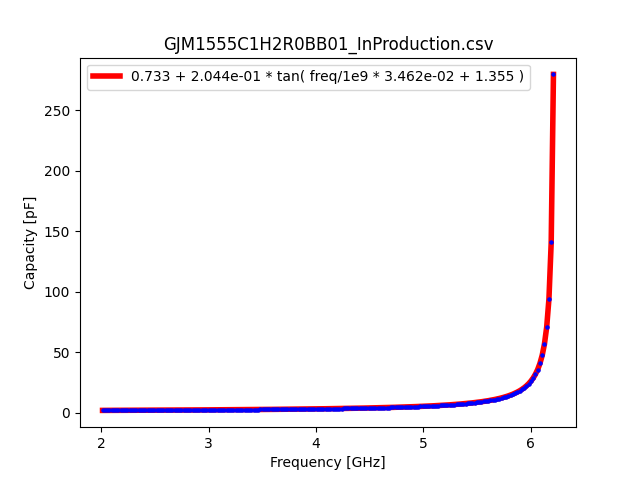
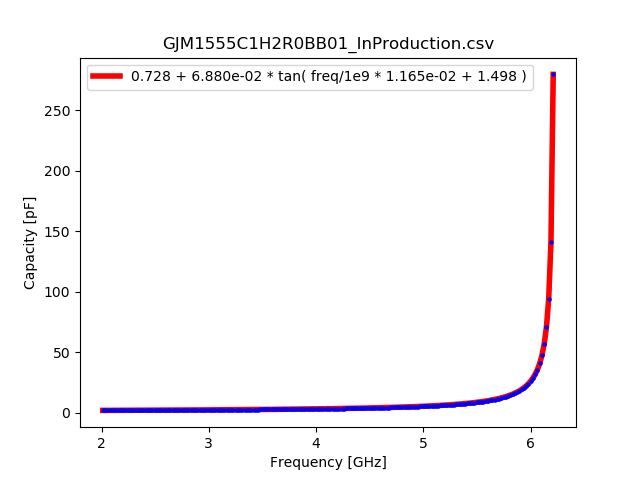
update

diff --git a/fitting.py b/fitting.py
@@ -1,10 +1,8 @@
-import sys
 import csv
 import re
 import matplotlib.pyplot as plt
 import numpy as np
 from scipy.optimize import curve_fit
-import glob
 
 
 def get_capacity_from_csv(file_name):

diff --git a/README.md b/README.md
@@ -6,12 +6,21 @@ note : use only simsurfing data
 | label | value | func |
 | ---   | ---   | --- |
 | [GJM1555C1H1R0BB01_InProduction.csv](img/GJM1555C1H1R0BB01_InProduction.png) | 1.0pF | `0.446 + 7.759e-03 * tan( freq/1e9 * 2.307e-03 + 1.553 )` |
-| [GJM1555C1H1R1WB01_InProduction.csv](img/GJM1555C1H1R1WB01_InProduction.png) | 1.1pF | `0.508 + 7.715e-03 * tan( freq/1e9 * 2.033e-03 + 1.555 )` |
+| [GJM1555C1H1R1BB01_InProduction.csv](img/GJM1555C1H1R1BB01_InProduction.png) | 1.1pF | `0.508 + 7.715e-03 * tan( freq/1e9 * 2.033e-03 + 1.555 )` |
 | [GJM1555C1H1R2BB01_InProduction.csv](img/GJM1555C1H1R2BB01_InProduction.png) | 1.2pF | `0.515 + 9.215e-03 * tan( freq/1e9 * 2.215e-03 + 1.554 )` |
 | [GJM1555C1H1R3BB01_InProduction.csv](img/GJM1555C1H1R3BB01_InProduction.png) | 1.3pF | `0.516 + 1.648e-02 * tan( freq/1e9 * 3.652e-03 + 1.544 )` |
 | [GJM1555C1H1R4BB01_InProduction.csv](img/GJM1555C1H1R4BB01_InProduction.png) | 1.4pF | `0.530 + 2.301e-02 * tan( freq/1e9 * 4.747e-03 + 1.536 )` |
 | [GJM1555C1H1R5BB01_InProduction.csv](img/GJM1555C1H1R5BB01_InProduction.png) | 1.5pF | `0.500 + 5.973e-02 * tan( freq/1e9 * 1.150e-02 + 1.490 )` |
 | [GJM1555C1H1R6BB01_InProduction.csv](img/GJM1555C1H1R6BB01_InProduction.png) | 1.6pF | `0.527 + 6.705e-02 * tan( freq/1e9 * 1.248e-02 + 1.486 )` |
+| [GJM1555C1H1R7BB01_InProduction.csv](img/GJM1555C1H1R7BB01_InProduction.png) | 1.7pF | `0.737 + 6.072e-02 * tan( freq/1e9 * 1.229e-02 + 1.489 )` |
+| [GJM1555C1H1R8BB01_InProduction.csv](img/GJM1555C1H1R8BB01_InProduction.png) | 1.8pF | `0.756 + 6.549e-02 * tan( freq/1e9 * 1.264e-02 + 1.488 )` |
+| [GJM1555C1H1R9BB01_InProduction.csv](img/GJM1555C1H1R9BB01_InProduction.png) | 1.9pF | `0.774 + 6.380e-02 * tan( freq/1e9 * 1.179e-02 + 1.496 )` |
+| [GJM1555C1H2R0BB01_InProduction.csv](img/GJM1555C1H2R0BB01_InProduction.png) | 2.0pF | `0.728 + 6.880e-02 * tan( freq/1e9 * 1.165e-02 + 1.498 )` |
+| [GJM1555C1H2R1BB01_InProduction.csv](img/GJM1555C1H2R1BB01_InProduction.png) | 2.1pF | `0.754 + 8.282e-02 * tan( freq/1e9 * 1.360e-02 + 1.488 )` |
+| [GJM1555C1H2R2BB01_InProduction.csv](img/GJM1555C1H2R2BB01_InProduction.png) | 2.2pF | `0.785 + 7.863e-02 * tan( freq/1e9 * 1.256e-02 + 1.496 )` |
+| [GJM1555C1H2R3BB01_InProduction.csv](img/GJM1555C1H2R3BB01_InProduction.png) | 2.3pF | `1.099 + 6.886e-02 * tan( freq/1e9 * 1.348e-02 + 1.494 )` |
+| [GJM1555C1H2R4BB01_InProduction.csv](img/GJM1555C1H2R4BB01_InProduction.png) | 2.4pF | `1.133 + 7.643e-02 * tan( freq/1e9 * 1.443e-02 + 1.490 )` |
+| [GJM1555C1H2R5BB01_InProduction.csv](img/GJM1555C1H2R5BB01_InProduction.png) | 2.5pF | `1.160 + 7.962e-02 * tan( freq/1e9 * 1.450e-02 + 1.491 )` |
 | [GJM1555C1HR10BB01_InProduction.csv](img/GJM1555C1HR10BB01_InProduction.png) | 0.1pF | `0.092 + 3.410e-05 * tan( freq/1e9 * 3.710e-04 + 1.566 )` |
 | [GJM1555C1HR20BB01_InProduction.csv](img/GJM1555C1HR20BB01_InProduction.png) | 0.2pF | `0.170 + 2.088e-04 * tan( freq/1e9 * 6.529e-04 + 1.563 )` |
 | [GJM1555C1HR30BB01_InProduction.csv](img/GJM1555C1HR30BB01_InProduction.png) | 0.3pF | `0.241 + 4.287e-04 * tan( freq/1e9 * 7.254e-04 + 1.563 )` |
